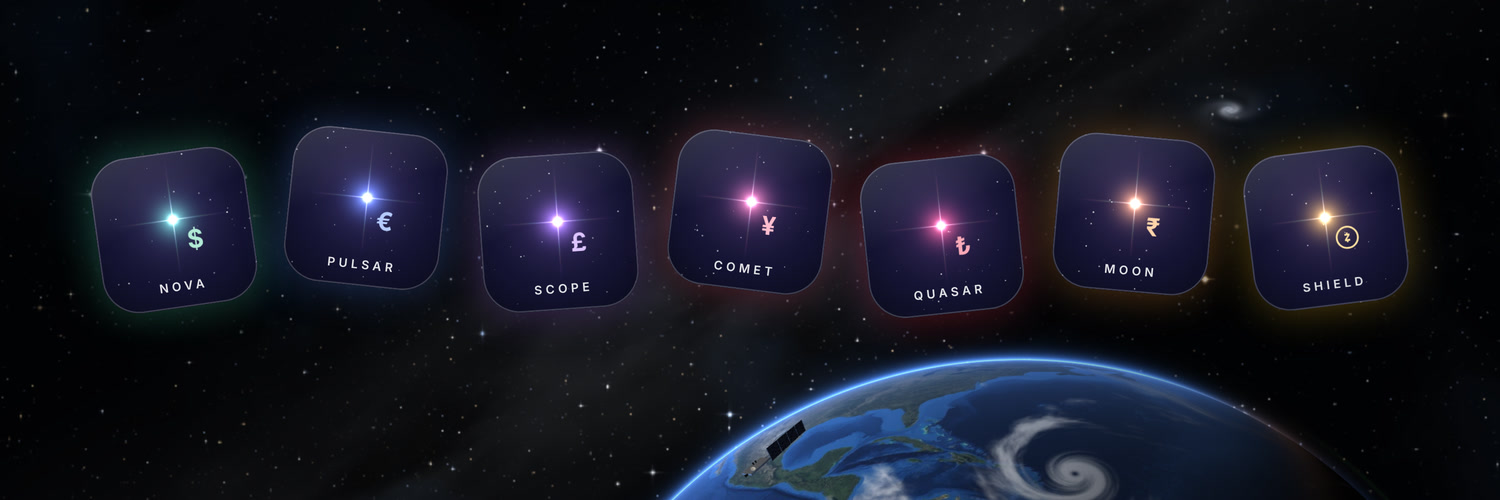
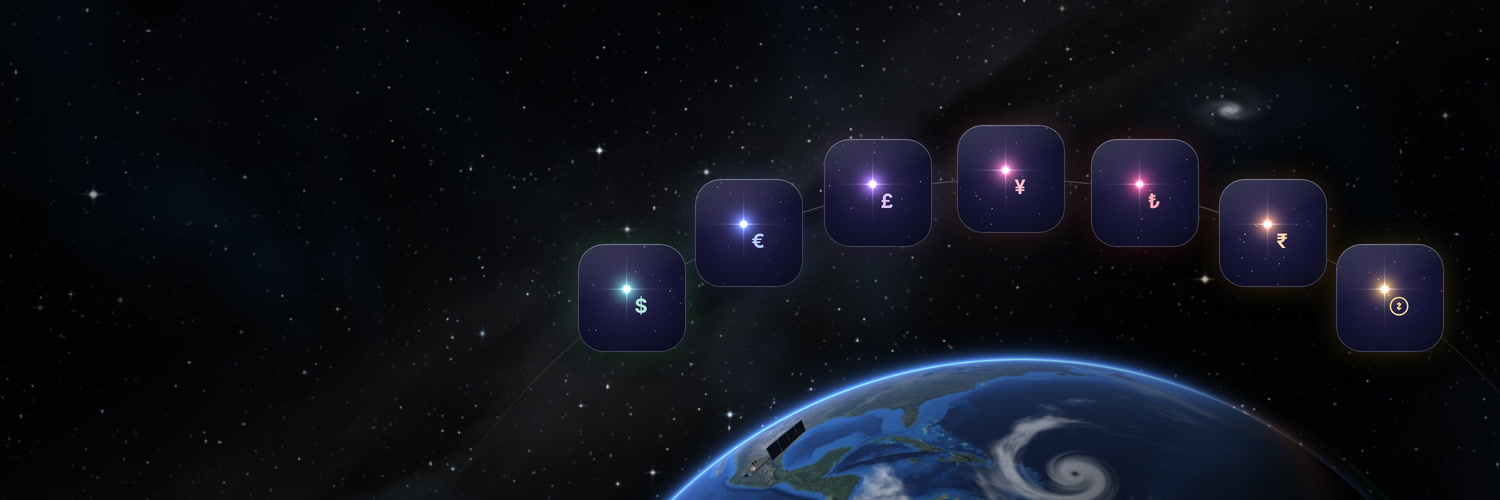
A tidier X header: the coins on an orbit above the Earth
x-header-2.jpg now lines the seven coin tiles up upright, evenly spaced on a circle
concentric with the Earth's limb (fitted from the capture's pixels), with a hairline
orbit through them that fades out at both ends. No tilts, no labels, larger signs,
softer halos. The left side is left to the sky and the profile picture.

Claude-Session: https://claude.ai/code/session_01DKdHaQgnLDw2WZfC9mUzzx

Changed region(s): [[0.0613, 0.21, 0.9813, 0.72]]

diff --git a/downpour/README.md b/downpour/README.md
@@ -176,8 +176,8 @@ Any static host works too, as long as unknown paths fall back to `index.html`.
   1024 px for X, listings and the like. `token.svg` is the $SMNT token image (a coin
   with a star). `x-pfp.png` (1000×1000, the mark alone) and `x-header.jpg` (1500×500,
   the site's sky with its currency stars) are the X profile picture and header;
-  `x-header-2.jpg` is the same sky with seven of the board's coins as tiles, each star
-  in its currency's colour and each tile glowing in it.
+  `x-header-2.jpg` is the same sky with seven coin tiles on an orbit above the Earth,
+  each star in its currency's colour.
   `starmint-teaser.mp4` (30 s) and `starmint-teaser-2.mp4` (46 s) are 1080p promo
   videos built from the site's own screens.
 - `shared/currencies.json`: which currencies exist, with reference rates.
